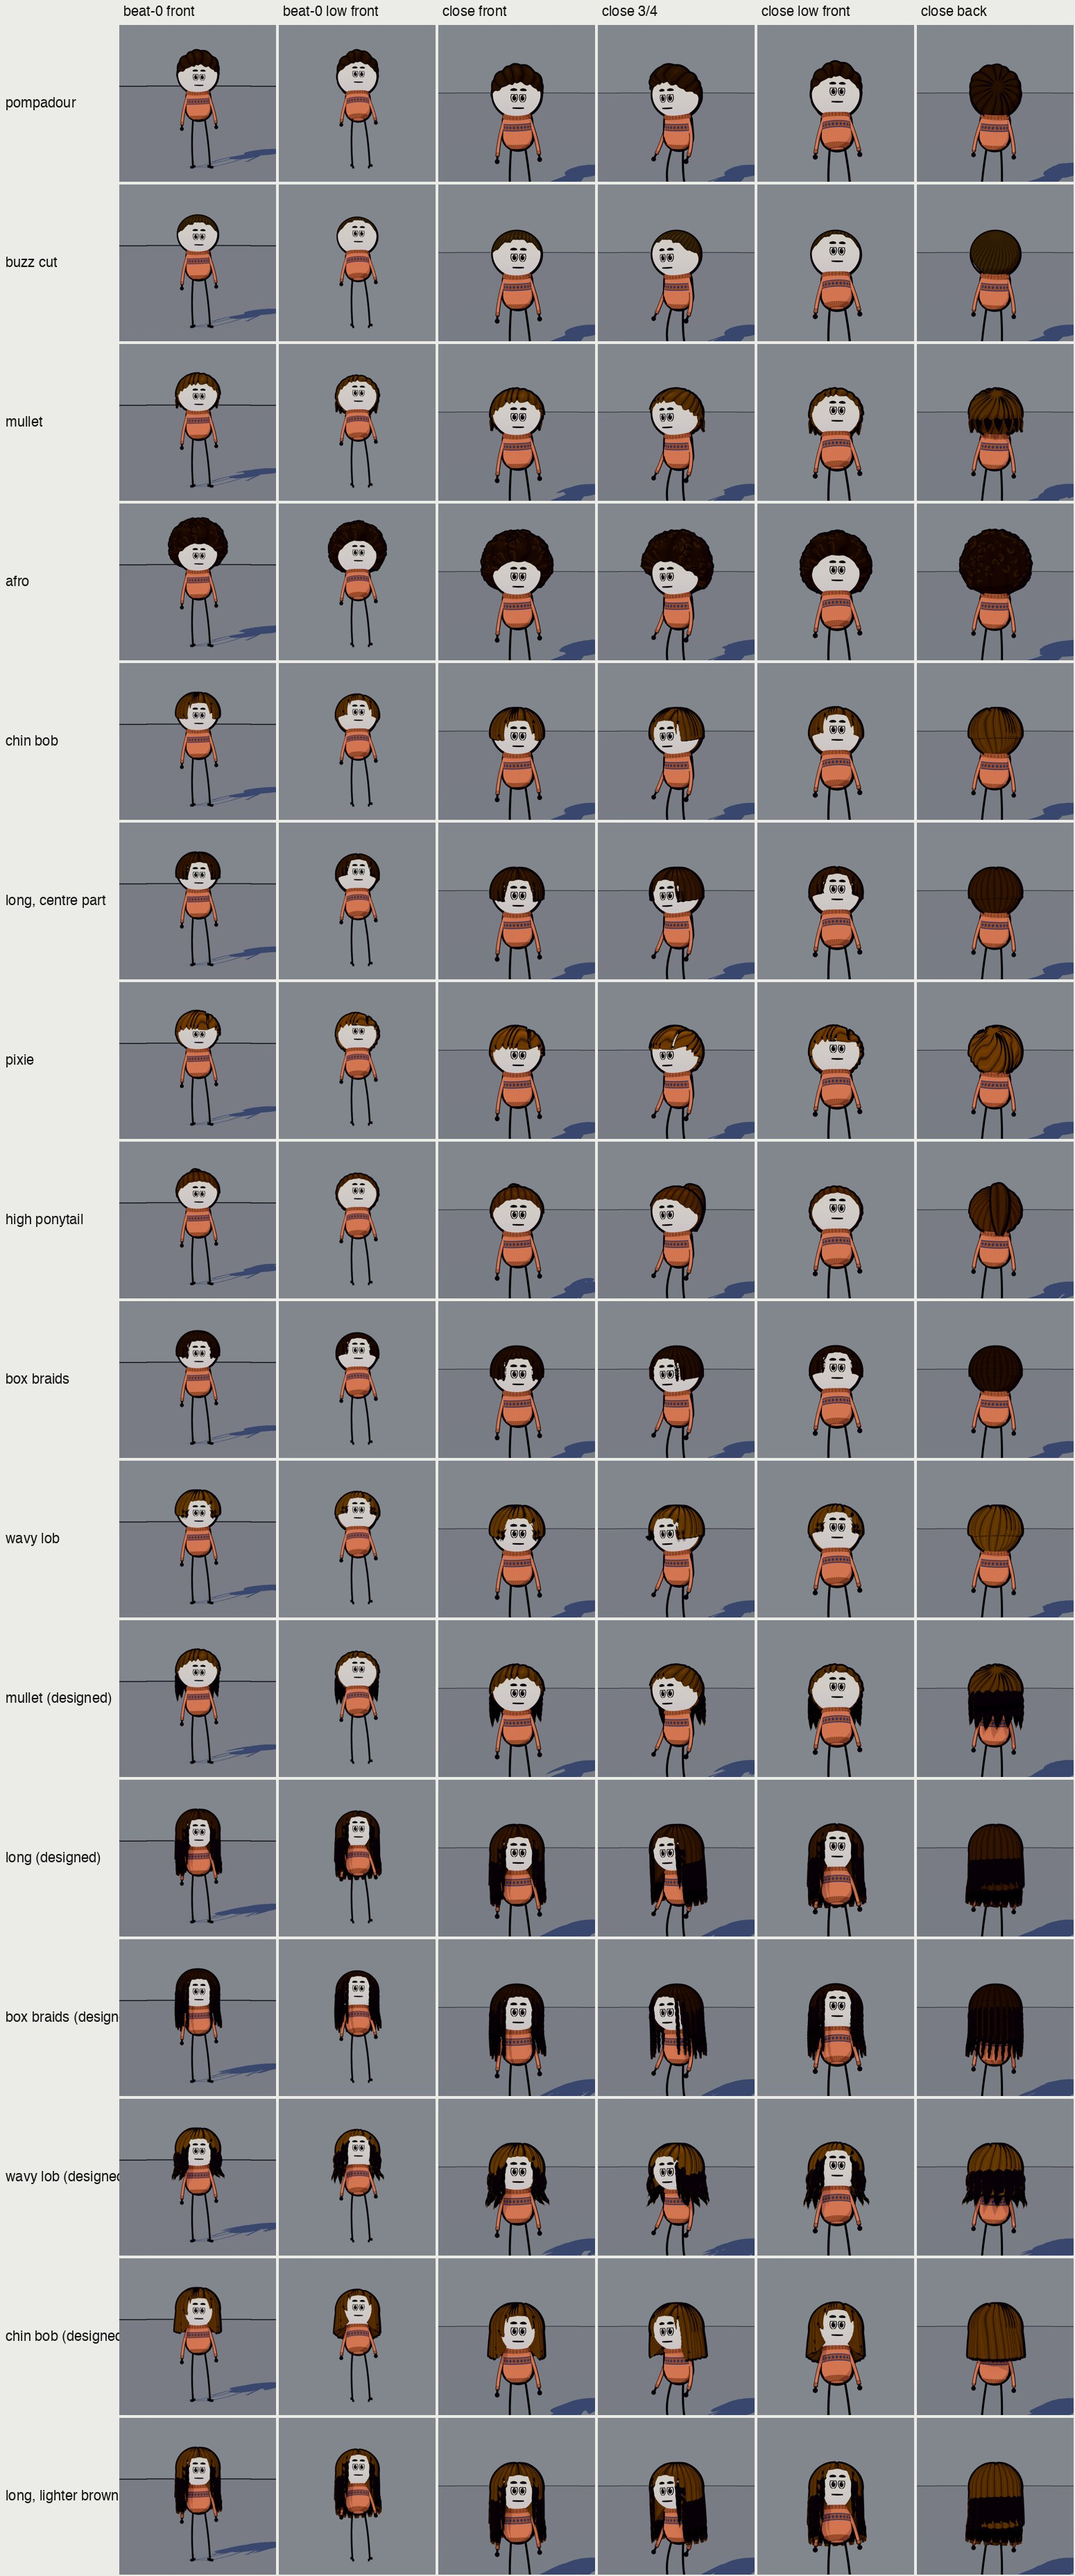
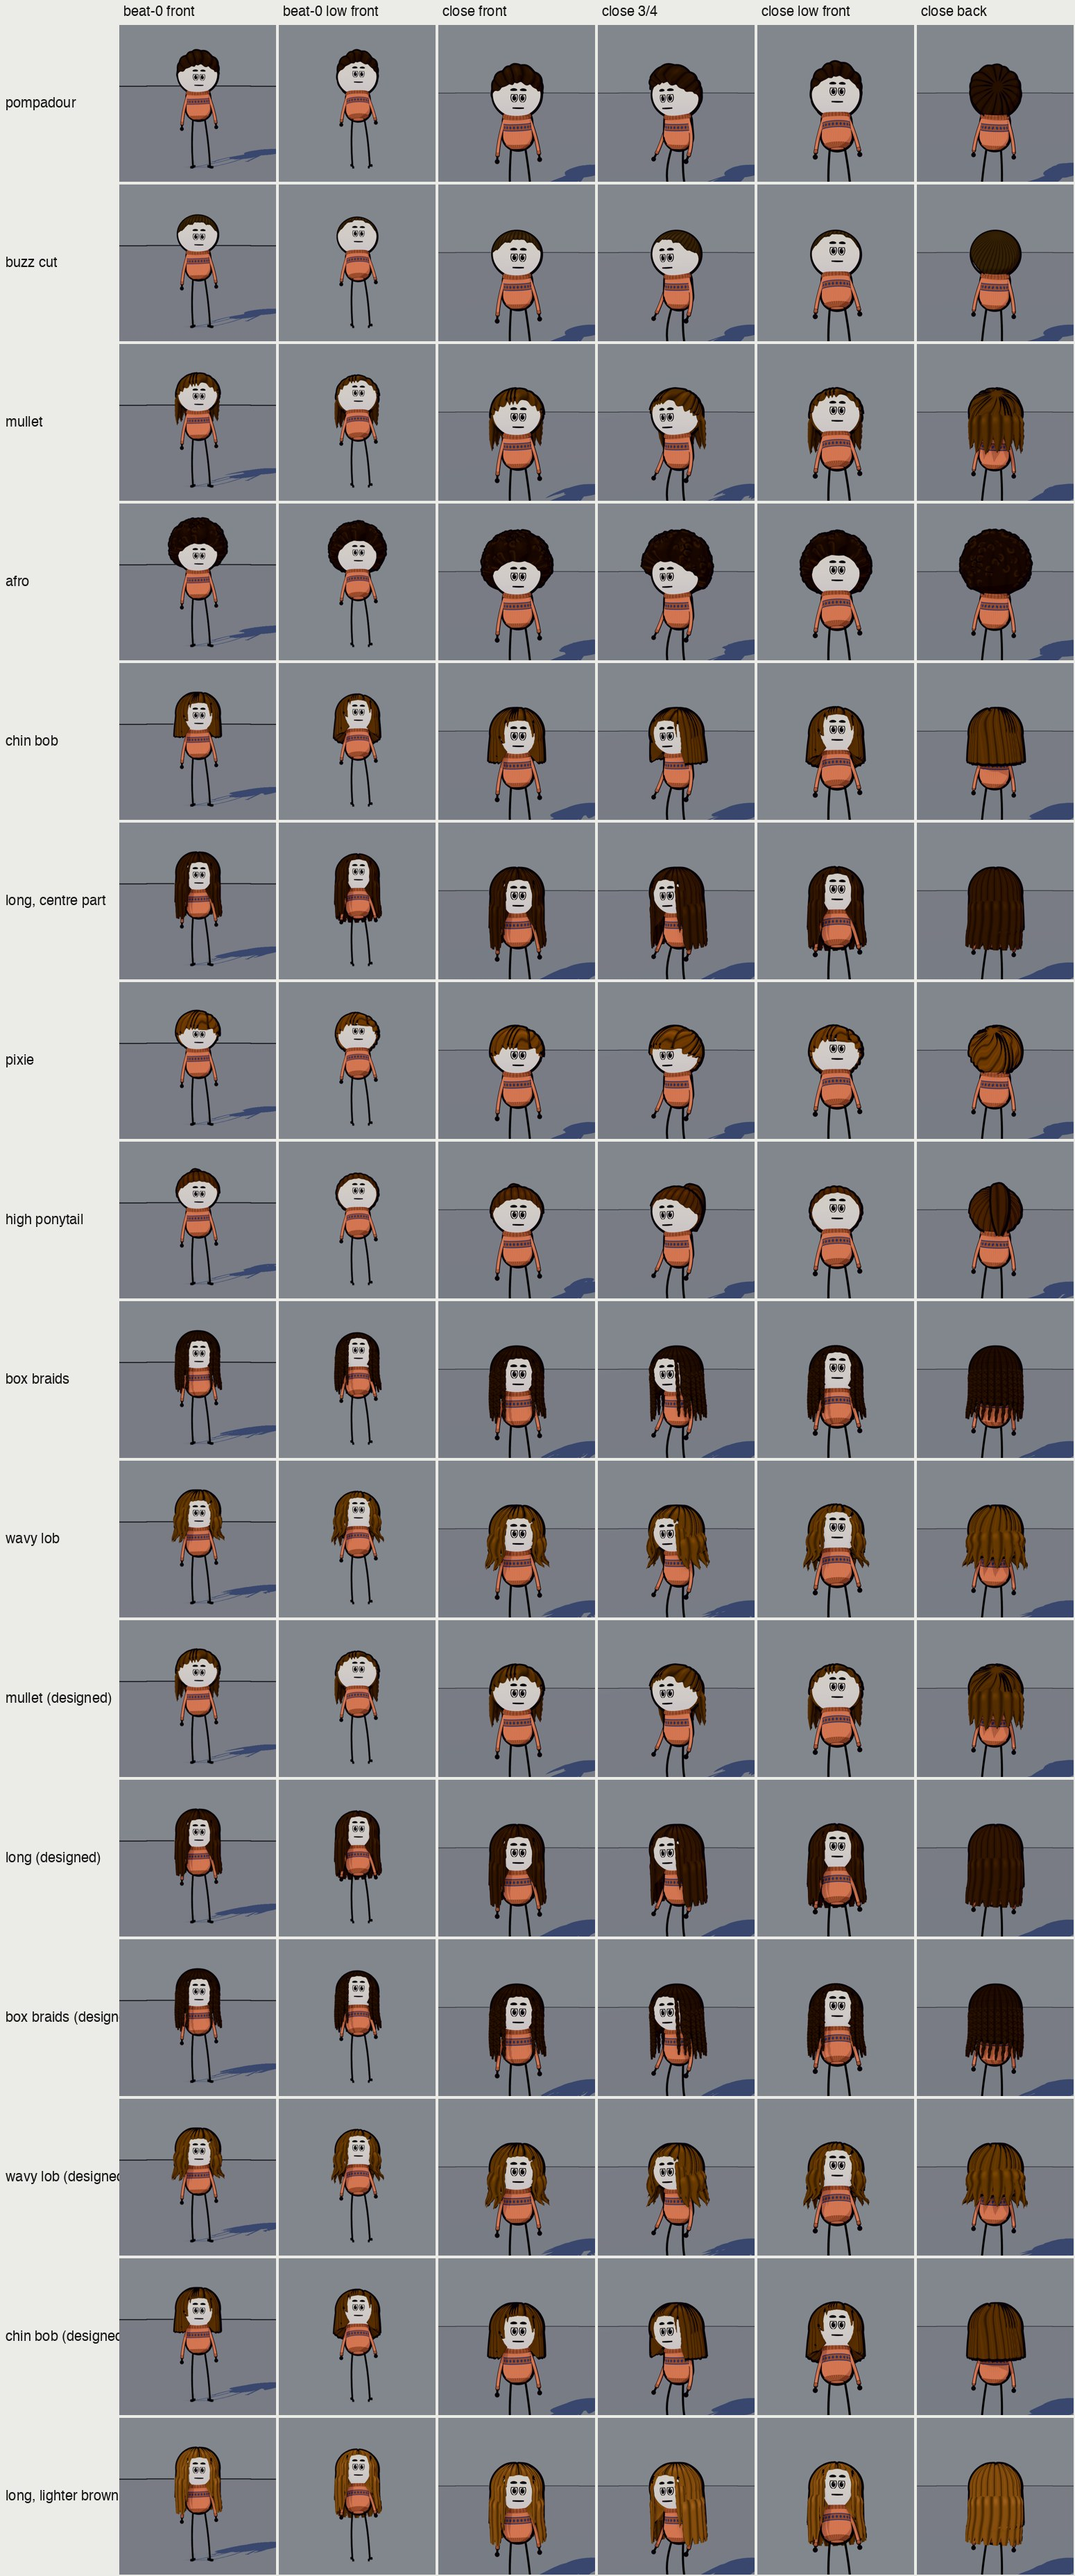
stick-man kit: lock normals out, designed long lengths ship on the neck blend, look-note fixes (pixie part, mullet fringe, mid-brown, hug), faster hair-in-body nearest search

diff --git a/styles/stick-man/kit/cast/hair.js b/styles/stick-man/kit/cast/hair.js
@@ -56,40 +56,40 @@ const STYLES = {
   buzz:  { col: [0.30, 0.23, 0.17], whorl: [0, 0.70, -0.70], locks: 36, twist: 0.1, clump: 0.003, base: 0.008, lift: 0.004, tips: 0.006, grain: 0.45, edgeDark: 0.35, ink: 0.6,
            lo: [[0, 0.33], [18, 0.33], [26, 0.27], [40, 0.27], [62, 0.10], [84, 0.03], [125, -0.36], [180, -0.36]] },
   // a mullet: short on top, a thick tail of pointed locks at the nape down to the collar
-  mullet: { cut: -0.42, col: [0.40, 0.25, 0.13], whorl: [0, 0.70, -0.70], locks: 20, twist: 0.12, jit: 0.15, clump: 0.024, base: 0.020, lift: 0.030, tips: 0.050, lo: edge({ front: 0.30, side: -0.04, back: -0.42 }),
+  mullet: { neck: true, col: [0.40, 0.25, 0.13], whorl: [0, 0.70, -0.70], locks: 20, twist: 0.12, jit: 0.30, clump: 0.024, base: 0.020, lift: 0.030, tips: 0.090, lo: edge({ front: 0.29, side: -0.04, back: -0.42 }),
             falls: [{ lon: [112, 180], n: 4, from: -0.20, to: -0.80, rho: 0.03, flat: 0.55, flare: 0.04, jit: 0.12, tip: 'point', ridges: 3 }] },
   // an afro: one round mass wider than the head, its surface curl clumps
   afro:  { col: [0.24, 0.15, 0.10], whorl: [0, 0.80, -0.60], locks: 12, twist: 0, clump: 0.004, base: 0.02, lift: 0, tips: 0.03, ball: { c: [0, 0.16, -0.05], r: 0.70, nape: -0.40 }, bumps: [150, 0.13, 0.030, -0.45], lo: edge({ front: 0.30, temple: 0.28, side: -0.02, back: -0.40 }) },
   // ---- women
   // a chin bob: a bell that falls straight from the crown to the jaw, a blunt hem, a side part
-  bob:   { cut: -0.12, col: [0.42, 0.26, 0.14], whorl: [0, 1, -0.08], locks: 30, jit: 0.25, twist: 0, clump: 0.016, base: 0.030, lift: 0.020, tips: 0.006, part: 0.12, lo: edge({ front: 0.30, side: -0.04 }),
-           hang: { from: 0.02, flare: 0.10, hem: [[0, 0.30], [28, 0.28], [52, -0.36], [180, -0.38]], tips: 0.045, edge: 14 } },
+  bob:   { neck: true, col: [0.42, 0.26, 0.14], whorl: [0, 1, -0.08], locks: 30, jit: 0.25, twist: 0, clump: 0.016, base: 0.030, lift: 0.020, tips: 0.006, part: 0.12, lo: edge({ front: 0.30, side: -0.04 }),
+           hang: { from: 0.02, flare: 0.10, hem: [[0, 0.30], [30, 0.28], [48, -0.36], [180, -0.38]], tips: 0.045, edge: 14 } },
   // long and straight, parted in the middle: the scalp falls to the jaw, two curtains of flat locks on to the chest
-  long:  { cut: -0.14, col: [0.26, 0.15, 0.08], whorl: [0, 1, -0.05], locks: 24, twist: 0, clump: 0.014, base: 0.026, lift: 0.014, tips: 0.006, part: 0, lo: edge({ front: 0.30, side: -0.04 }),
-           hang: { from: 0.02, flare: 0.04, hem: [[0, 0.30], [28, 0.28], [50, -0.40], [180, -0.42]], tips: 0.03, edge: 12 },
+  long:  { neck: true, col: [0.26, 0.15, 0.08], whorl: [0, 1, -0.05], locks: 24, twist: 0, clump: 0.014, base: 0.026, lift: 0.014, tips: 0.006, part: 0, lo: edge({ front: 0.30, side: -0.04 }),
+           hang: { from: 0.02, flare: 0.04, hem: [[0, 0.30], [30, 0.28], [48, -0.40], [180, -0.42]], tips: 0.03, edge: 12 },
            falls: [{ lon: [36, 46], n: 2, from: 0.05, to: -0.85, rho: 0.03, flat: 0.32, flare: 0.02, jit: 0.15, tip: 'point', ridges: 3, seed: 9 },   // face-framing strands
                    { lon: [52, 180], n: 8, from: -0.30, to: -1.15, rho: 0.045, flat: 0.32, flare: 0.03, tip: 'blunt', ridges: 3 }] },
   // a pixie: a short feathered cap, a wispy fringe swept to one side, feathered at the nape too
-  pixie: { col: [0.50, 0.30, 0.15], whorl: [0.15, 0.75, -0.64], locks: 18, twist: 0.30, jit: 0.35, clump: 0.026, base: 0.020, lift: 0.024, tips: 0.090, napeTips: 1, sweep: 0.022, part: 0.20, lo: edge({ front: 0.15, temple: 0.14, side: -0.06, back: -0.36 }) },
+  pixie: { col: [0.50, 0.30, 0.15], whorl: [0.15, 0.75, -0.64], locks: 18, twist: 0.30, jit: 0.35, clump: 0.026, base: 0.020, lift: 0.024, tips: 0.090, napeTips: 1, sweep: 0.022, part: 0.20, partSkin: false, lo: [[0, 0.15], [30, 0.14], [62, -0.02], [84, -0.08], [125, -0.36], [180, -0.36]] },   // the sideburn down past the ear's top: no skin wedge in 3/4
   // a high ponytail: the hair drawn tight to a tie high on the crown, one thick club of a tail off it
   ponytail: { cut: -0.54, col: [0.36, 0.20, 0.10], whorl: [0, 0.62, -0.78], locks: 22, twist: 0, clump: 0.016, base: 0.016, lift: 0.010, tips: 0.012, lo: edge({ front: 0.30, side: -0.04 }),
               buns: [{ dir: [0, 0.62, -0.78], r: 0.085, out: -0.01 }],
               tails: [{ path: [[0, 0.26, -0.30], [0, 0.40, -0.58], [0, 0.28, -0.80], [0, 0.00, -0.86], [0, -0.30, -0.80], [0, -0.55, -0.70]], w: [0.06, 0.10, 0.15, 0.17, 0.16, 0.11, 0.02], flat: 0.8, ridges: 5, seg: 64, sides: 22 }] },
   // box braids: square parts on the scalp, a curtain of thin braided ropes round the back and sides to the shoulders
-  braids: { cut: -0.14, col: [0.20, 0.13, 0.09], whorl: [0, 1, -0.05], locks: 24, twist: 0, clump: 0.006, base: 0.022, lift: 0.012, tips: 0.010, grid: [14, 22], lo: edge({ front: 0.30, side: -0.04 }),
-            hang: { from: 0.02, flare: 0, hem: [[0, 0.30], [28, 0.28], [56, -0.34], [180, -0.40]], tips: 0.03, edge: 12 },   // the braids lie on a curtain of hair: no cheek between them
+  braids: { neck: true, col: [0.20, 0.13, 0.09], whorl: [0, 1, -0.05], locks: 24, twist: 0, clump: 0.006, base: 0.022, lift: 0.012, tips: 0.010, grid: [14, 22], lo: edge({ front: 0.30, side: -0.04 }),
+            hang: { from: 0.02, flare: 0, hem: [[0, 0.30], [30, 0.28], [48, -0.34], [180, -0.40]], tips: 0.03, edge: 12 },   // the braids lie on a curtain of hair: no cheek between them
             falls: [{ lon: [34, 48], n: 2, from: 0.10, to: -0.95, rho: 0.03, w: 0.040, flat: 1, flare: 0.02, jit: 0.10, tip: 'blunt', braid: 9, ridges: 0, ink: 0.55, sides: 12, seed: 9 },   // front braids: they read from the front
                     { lon: [56, 180], n: 10, from: -0.10, to: -1.00, rho: 0.04, w: 0.040, flat: 1, flare: 0.04, jit: 0.10, tip: 'blunt', braid: 9, ridges: 0, ink: 0.55, sides: 12 }] },
   // a wavy lob: a soft S-wave mass to the shoulders, the tips turning out
-  lob:   { cut: -0.12, col: [0.46, 0.29, 0.14], whorl: [0, 1, -0.10], locks: 22, twist: 0.10, jit: 0.15, clump: 0.022, base: 0.030, lift: 0.024, tips: 0.010, part: 0.10, lo: edge({ front: 0.30, side: -0.04 }),
-           hang: { from: 0.02, flare: 0.08, hem: [[0, 0.30], [28, 0.28], [50, -0.30], [180, -0.36]], tips: 0.04, edge: 14 },
+  lob:   { neck: true, col: [0.46, 0.29, 0.14], whorl: [0, 1, -0.10], locks: 22, twist: 0.10, jit: 0.15, clump: 0.022, base: 0.030, lift: 0.024, tips: 0.010, part: 0.10, lo: edge({ front: 0.30, side: -0.04 }),
+           hang: { from: 0.02, flare: 0.08, hem: [[0, 0.30], [30, 0.28], [48, -0.30], [180, -0.36]], tips: 0.04, edge: 14 },
            falls: [{ lon: [36, 46], n: 2, from: 0.05, to: -0.60, rho: 0.04, flat: 0.45, flare: 0.03, wave: [0.03, 2.2], flick: 0.05, jit: 0.12, tip: 'point', ridges: 3, seed: 9 },   // face-framing strands
                    { lon: [50, 180], n: 7, from: -0.20, to: -0.78, rho: 0.06, flat: 0.45, flare: 0.04, wave: [0.035, 2.2], flick: 0.06, jit: 0.08, tip: 'point', ridges: 3 }] },
 };
 export const HAIR_STYLES = Object.keys(STYLES);
 export const styleOf = style => STYLES[style];
 // where a style shows its scalp by design: what it declares (st.bare), and a swept style's parting (the scalp shows along it)
-export const bareOf = st => [...(st.bare || []), ...(st.sweep && st.part != null ? [{ part: st.part, w: 0.016, above: 0.25 }] : [])];
+export const bareOf = st => [...(st.bare || []), ...(st.sweep && st.part != null && st.partSkin !== false ? [{ part: st.part, w: 0.016, above: 0.25 }] : [])];
 // a style's scalp field (d -> { r, k }, k = 1 where hair grows, less on its hairline wall, which tucks under the skin): for measures
 export const scalpField = (style, patch) => scalp({ ...STYLES[style], ...patch });
 
@@ -120,8 +120,9 @@ function scalp(st) {
     if (st.ball) t += Math.max(0, ballR(st.ball, d) - rh / W - st.base) * sm(st.ball.nape ?? -9, (st.ball.nape ?? -9) + 0.22, y);   // a round mass wider than the head (an afro), shaped in to a short nape
     if (st.crest) t += st.crest * sm(-0.6, 0.55, d.z) * sm(-0.05, 0.30, y) * (1 - 0.35 * sm(0.2, 0.5, Math.abs(d.x)));   // a tall wave over the forehead, swept back
     if (st.tight) t *= 1 - st.tight * sm(0.30, 0.70, Math.abs(d.x)) * sm(0.40, 0.05, y);    // the sides cut close
-    if (st.hang) {     // hair that falls straight from where the head is widest, to a hem (the hem's height y round the head, W)
-      const hs = Math.hypot(d.x, d.z), H = st.hang, rho = (0.5 * Math.sqrt(Math.max(0, 1 - (H.from / (HB / W)) ** 2)) + st.base + 0.5 * st.clump * c) * (1 + (H.flare || 0) * sm(H.from, H.from - 0.5, d.y * rh / W)), rc = hs > 1e-3 ? rho * W / hs : 0;
+    if (st.hang) {     // hair that falls straight from where the head is widest, to a hem (the hem's height y round the head, W); near the
+      // face it hugs the head (hug): in 3/4 the far side's curtain sits behind the cheek, not across the face (Studio 26/11)
+      const hs = Math.hypot(d.x, d.z), H = st.hang, rho = (0.5 * Math.sqrt(Math.max(0, 1 - (H.from / (HB / W)) ** 2)) + st.base + 0.5 * st.clump * c) * (1 + (H.flare || 0) * sm(H.from, H.from - 0.5, d.y * rh / W)) * (1 - (H.hug ?? 0.05) * sm(80, 35, lon)), rc = hs > 1e-3 ? rho * W / hs : 0;
       if (rc > rh + t * W && d.y * rc / W < H.from) { t = rc / W - rh / W; const yh = d.y * rc / W; cover = sm(-0.02, 0.02, yh - table(H.hem, lon + (H.edge || 0) * (c - 0.55) * amp) + (H.tips || 0) * (c - 0.55) * amp); }
     }
     if (st.grain) { const n = Math.sin(d.x * 911.7 + d.y * 437.3 + d.z * 719.1) * 43758.5; shade += st.grain * (n - Math.floor(n) - 0.5); }   // a stubble's grain
@@ -137,7 +138,7 @@ function scalp(st) {
       t += st.bumps[2] * h; shade = 0.2 * shade - 0.8 * (1 - h) ** 2 + 0.5 * ridge * apart * sm(0.5, 0.65, u) * (0.5 + 0.5 * Math.cos(a)) - 0.3 * (mid > ridge ? 1 : 0) * apart;
     }
     if (st.sweep) t += st.sweep * sm(st.part, st.part - 0.35, d.x * rh / W) * sm(0.05, 0.35, y) * sm(-0.6, 0.2, d.z);   // the swept side stands higher
-    if (st.part != null && d.y > 0.25 && d.z > -0.55) { const p = sm(0.012, 0.040, Math.abs(d.x * rh / W - st.part)); t *= 0.25 + 0.75 * p; shade = Math.min(shade, -(1 - p)); if (st.sweep) cover *= sm(0.004, 0.016, Math.abs(d.x * rh / W - st.part)); }
+    if (st.part != null && d.y > 0.25 && d.z > -0.55) { const p = sm(0.012, 0.040, Math.abs(d.x * rh / W - st.part)); t *= 0.25 + 0.75 * p; shade = Math.min(shade, -(1 - p)); if (st.sweep && st.partSkin !== false) cover *= sm(0.004, 0.016, Math.abs(d.x * rh / W - st.part)); }
     shade += 0.45 * Math.exp(-(((Math.asin(d.y) / DEG - 52) / 9) ** 2)) * c * c * sm(130, 60, lon);   // the light band round the crown
     if (st.tipLight) shade += st.tipLight * sm(0.16, 0.0, y - table(st.lo, lon)) * c;   // the lock tips catch the light: grey hair, not a cap
     if (st.hang) cover = Math.max(cover, sm(-0.02, 0.02, y - table(st.hang.hem, lon + (st.hang.edge || 0) * (c - 0.55) * amp)));   // the hem is the hairline above the fall too: no bare band between the two
@@ -219,6 +220,10 @@ function lockMesh(L, rgb) {
   }
   for (let i = 0; i < M; i++) for (let j = 0; j < N; j++) { const a = i * (N + 1) + j, b = a + N + 1; idx.push(a, b, a + 1, a + 1, b, b + 1); }
   const g = new THREE.BufferGeometry(); g.setAttribute('position', new THREE.Float32BufferAttribute(pos, 3)); g.setAttribute('uv', new THREE.Float32BufferAttribute(uvs, 2)); g.setIndex(idx); g.computeVertexNormals();
+  // the normals must face out of the lock (the ring runs either way round with sg): facing in, a lock drew near black and its ink
+  // hull went inside it (the falls of long, lob, braids and mullet, 26/11)
+  { const r0 = (M >> 1) * (N + 1), c0 = new THREE.Vector3(); for (let j = 0; j < N; j++) c0.add(new THREE.Vector3().fromBufferAttribute(g.attributes.position, r0 + j)); c0.divideScalar(N);
+    if (new THREE.Vector3().fromBufferAttribute(g.attributes.position, r0).sub(c0).dot(new THREE.Vector3().fromBufferAttribute(g.attributes.normal, r0)) < 0) { for (let k = 0; k < idx.length; k += 3) [idx[k + 1], idx[k + 2]] = [idx[k + 2], idx[k + 1]]; g.setIndex(idx); g.computeVertexNormals(); } }
   const GN = g.attributes.normal; for (let i = 0; i <= M; i++) { const a = i * (N + 1), b = a + N, v = new THREE.Vector3(GN.getX(a) + GN.getX(b), GN.getY(a) + GN.getY(b), GN.getZ(a) + GN.getZ(b)).normalize(); GN.setXYZ(a, v.x, v.y, v.z); GN.setXYZ(b, v.x, v.y, v.z); }   // the seam shades as one
   const shade = (u, t) => { const a = 2 * Math.PI * u, cr = rid ? 0.5 + 0.5 * Math.cos(rid * a) : 1, face = sm(-0.3, 0.7, Math.sin(a));
     let s = -0.8 * Math.pow(1 - cr, 3) + 0.45 * Math.exp(-(((t - (L.band ?? 0.22)) / 0.07) ** 2)) * cr * cr * face + (L.tipLight || 0) * sm(0.75, 1, t) - 0.25 * sm(0.3, -0.6, Math.sin(a));
@@ -270,7 +275,7 @@ export function toonHair(style = 'side', col, patch) {   // patch: fields over t
     for (const L of locks) lg.add(lockMesh(L, rgb));
     // the blend (cast.js skinToNeck): all head down to where the crown's mass ends (the bell's hem, or the hairline at the nape),
     // so nothing the crown covers ever leaves it, then all neck 0.45 W lower (a lock's top fixed to the neck opened 11-49 mm)
-    if (st.neck) Object.assign(lg.userData, { neckTop: ((st.hang ? Math.min(...st.hang.hem.map(h => h[1])) : table(st.lo, 180)) - 0.02) * W, neckRamp: 0.45 * W });
+    if (st.neck) Object.assign(lg.userData, { neckTop: ((st.hang ? Math.min(...st.hang.hem.map(h => h[1])) : table(st.lo, 180)) - 0.08) * W, neckRamp: 0.45 * W });
     return g;
   };
 }

diff --git a/styles/stick-man/tools/run/hairsheet.html b/styles/stick-man/tools/run/hairsheet.html
@@ -32,7 +32,7 @@ const RUN = new URLSearchParams(location.search).get('run');
 // a style the hair-in-body check shortened also shows as designed (`cut: null`, its lengths bound to the neck: `neck: true`), for the one who picks the length
 const TYPES = { mw: [['pompadour', 'adult'], ['buzz', 'adult'], ['mullet', 'adult'], ['afro', 'adult'], ['bob', 'adult'], ['long', 'adult'], ['pixie', 'adult'], ['ponytail', 'adult'], ['braids', 'adult'], ['lob', 'adult'],
   ['mullet', 'adult', toonHair('mullet', null, { neck: true, cut: null })], ['long', 'adult', toonHair('long', null, { neck: true, cut: null })], ['braids', 'adult', toonHair('braids', null, { neck: true, cut: null })], ['lob', 'adult', toonHair('lob', null, { neck: true, cut: null })], ['bob', 'adult', toonHair('bob', null, { neck: true, cut: null })],
-  ['long', 'adult', toonHair('long', [0.42, 0.26, 0.14], { neck: true, cut: null })]] };   // the lighter brown test (Studio 26/11)
+  ['long', 'adult', toonHair('long', [0.58, 0.38, 0.21], { neck: true, cut: null })]] };   // the lighter brown test (Studio 26/11)
 const TYPE = new URLSearchParams(location.search).get('type');
 const ROWS = (TYPES[TYPE] || [['hairCap (today)', 'adult', hairCap()], ['bun (today)', 'adult', bun()], ['side', 'adult'], ['crop', 'adult'], ['curly', 'adult'], ['elder', 'elder'], ['woman', 'adult'], ['girl', 'child']])
   .map(([n, b, f]) => ({ n, b, f: f || toonHair(n) }));
